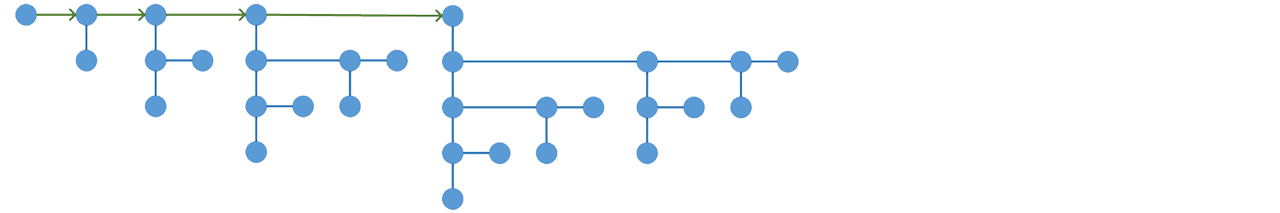
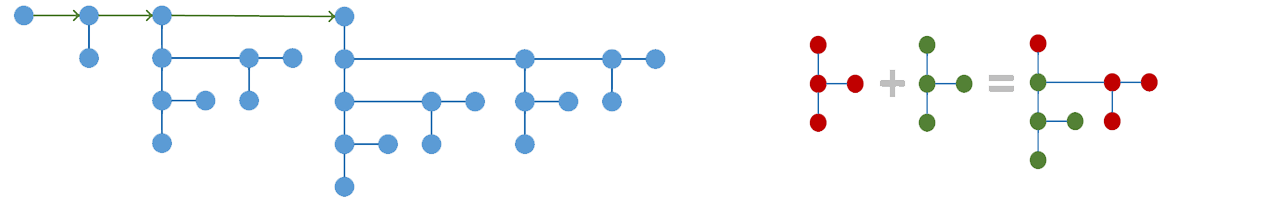
fix a bug in Binomial Heap

diff --git a/Heap/binomial/merge.go b/Heap/binomial/merge.go
@@ -13,31 +13,24 @@ func fakeHead(spt **node) *node {
 //list是从少到多的
 func (hp *Heap) merge(list *node) {
 	var knot = fakeHead(&hp.list)
-	for knot.peer != nil && list != nil {
-		if knot.peer.level == list.level {
-			var root = knot.peer
-			knot.peer = root.peer
-			var another = list
-			list = another.peer
-
-			if root.key > another.key {
-				root, another = another, root
-			}
-			another.peer, root.child = root.child, another
-			root.level++
-
-			root.peer, list = list, root
-		} else {
-			if knot.peer.level > list.level {
-				var target = list
-				list = list.peer
-				target.peer, knot.peer = knot.peer, target
-			}
+	for list != nil {
+		var one, another = list, knot.peer
+		if another == nil || one.level < another.level {
+			list, one.peer = one.peer, another
+			knot.peer = one
+		} else if one.level > another.level {
 			knot = knot.peer
+		} else { //同级合并
+			list, knot.peer = one.peer, another.peer
+
+			if one.key > another.key {
+				one, another = another, one
+			}
+			another.peer, one.child = one.child, another
+			one.level++
+
+			one.peer, list = list, one //可能会有一项逆序，不影响大局
 		}
-	}
-	if list != nil {
-		knot.peer = list
 	}
 }
 func (hp *Heap) Merge(victim *Heap) {

diff --git a/Heap/pairing/heap.go b/Heap/pairing/heap.go
@@ -12,6 +12,13 @@ type Node struct {
 	next  *Node //弟节点
 }
 
+func (node *Node) hook(peer *Node) *Node {
+	if peer != nil {
+		peer.prev = node
+	}
+	return peer
+}
+
 func (hp *Heap) IsEmpty() bool {
 	return hp.root == nil
 }
@@ -22,14 +29,11 @@ func (hp *Heap) Top() (key int, fail bool) {
 	return hp.root.key, false
 }
 
-func merge(one *Node, another *Node) *Node {
+func merge(one *Node, another *Node) *Node { //one != nil && another != nil
 	if one.key > another.key {
 		one, another = another, one
 	}
-	another.next = one.child
-	if one.child != nil {
-		one.child.prev = another
-	}
+	another.next = another.hook(one.child)
 	one.child, another.prev = another, one
 	return one
 }

diff --git a/Heap/pairing/float.go b/Heap/pairing/float.go
@@ -41,18 +41,8 @@ func (hp *Heap) FloatUp(target *Node, value int) {
 			return
 		}
 
-		target.next, parent.next = parent.next, target.next
-		if parent.next != nil {
-			parent.next.prev = parent
-		}
-		if target.next != nil {
-			target.next.prev = target
-		}
-
-		parent.child = target.child
-		if parent.child != nil {
-			parent.child.prev = parent
-		}
+		target.next, parent.next = target.hook(parent.next), parent.hook(target.next)
+		parent.child = parent.hook(target.child)
 
 		if brother != target {
 			parent.prev, target.prev = target.prev, parent.prev

diff --git a/book/pages/06-B.md b/book/pages/06-B.md
@@ -1,55 +1,49 @@
 # 二项堆
 ![](../images/BinomialHeap.png)
 
+二项堆基于若干棵树所组成的森林，其中树按节点数由少到多排列。这些树的节点数为2的幂，一起构成一个2基多项式。
+```go
+	type node struct {
+		key   int
+		level uint				//标记子树的级别
+		peer  *node
+		child *node
+	}
+	type Heap struct {
+		list *node				//子树列
+		top  *node				//指向堆首
+	}
+```
+
 ## 合并
+合并是二项堆的基本操作，其中子树的合并很容易，需要考虑的主要是2基多项式合并的问题。
 ```go
 	func (hp *Heap) merge(list *node) {
 		var knot = fakeHead(&hp.list)
-		for knot.peer != nil && list != nil {
-			if knot.peer.level == list.level {
-				var root = knot.peer
-				knot.peer = root.peer
-				var another = list
-				list = another.peer
-
-				if root.key > another.key {
-					root, another = another, root
-				}
-				another.peer, root.child = root.child, another
-				root.level++
-
-				root.peer, list = list, root
-			} else {
-				if knot.peer.level > list.level {
-					var target = list
-					list = list.peer
-					target.peer, knot.peer = knot.peer, target
-				}
+		for list != nil {
+			var one, another = list, knot.peer
+			if another == nil || one.level < another.level {		//辅链往下走
+				list, one.peer = one.peer, another
+				knot.peer = one
+			} else if one.level > another.level {					//主链往下走
 				knot = knot.peer
-			}
-		}
-		if list != nil {
-			knot.peer = list
+			} else { 												//同级树合并
+				list, knot.peer = one.peer, another.peer			//从链表中脱离
+
+				if one.key > another.key {
+					one, another = another, one
+				}													//合并
+				another.peer, one.child = one.child, another
+				one.level++
+
+				one.peer, list = list, one 							//回归辅链
+			}														//首项可能逆序，不影响大局
 		}
 	}
 ```
 
 ## 压入&弹出
-```go
-	func (hp *Heap) Push(key int) {
-		var unit = new(node)
-		unit.key, unit.level = key, 0
-		unit.peer, unit.child = nil, nil
-		if hp.IsEmpty() {
-			hp.list, hp.top = unit, unit
-		} else {
-			if key < hp.top.key {
-				hp.top = unit
-			}
-			hp.merge(unit)
-		}
-	}
-```
+二项堆的压入很简单，就是原堆和一个单元素堆的合并。
 
 ```go
 func (hp *Heap) Pop() (key int, fail bool) {

diff --git a/book/pages/06-C.md b/book/pages/06-C.md
@@ -11,6 +11,7 @@
 
 ## 拖延症
 ```go
+
 	func (hp *Heap) PushNode(unit *Node) {
 		if unit != nil {
 			unit.prev, unit.next, unit.child = nil, nil, nil
@@ -26,13 +27,10 @@
 ## Deadline的力量
 ```go
 	func (hp *Heap) PopNode() (unit *Node) {
-		if hp.root == nil {
-			return nil
-		}
+		if hp.root == nil { return nil }
 		unit, hp.root = hp.root, hp.root.child
-		if hp.root == nil {
-			return
-		}
+		if hp.root == nil { return }
+
 		//一次整理最坏情况下代价为O(N)，摊还代价则为O(log N)
 		//这里采用线性聚拢是不合适的，复杂之余不能持久降低宽度
 		for hp.root.next != nil {
@@ -54,13 +52,9 @@
 ## 力争上游
 ```go
 	func (hp *Heap) FloatUp(target *Node, value int) {
-		if target == nil || value >= target.key {
-			return
-		}
+		if target == nil || value >= target.key { return }
 		target.key = value
-		if target == hp.root {
-			return
-		}
+		if target == hp.root { return }
 
 		for {
 			var brother = target
@@ -70,12 +64,8 @@
 			var parent = brother.prev
 			if parent.key <= target.key { return }
 
-			target.next, parent.next = parent.next, target.next
-			if parent.next != nil { parent.next.prev = parent }
-			if target.next != nil { target.next.prev = target }
-
-			parent.child = target.child
-			if parent.child != nil { parent.child.prev = parent }
+			target.next, parent.next = target.hook(parent.next), parent.hook(target.next)
+			parent.child = parent.hook(target.child)
 
 			if brother != target {
 				parent.prev, target.prev = target.prev, parent.prev

diff --git a/book/pages/06.md b/book/pages/06.md
@@ -17,9 +17,10 @@ ___
 	 / \     / \           |  |  |  |
 	9   4   6   8          9  4  6  8
 ```
+由于子列的长度通常只有O(logN)，堆中对单个元素操作的用时一般不超过O(logN)。
 
 ## 堆排序
-堆的主要作用在于挑选最值，我们可以用它来改进选择排序。
+堆的主要作用在于挑选最值，我们可以用它来改进选择排序，把其时间复杂度降到O(NlogN)。
 ```go
 	func HeapSort(list []int) {
 		if len(list) < sz_limit {
